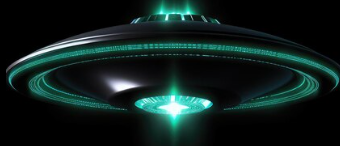
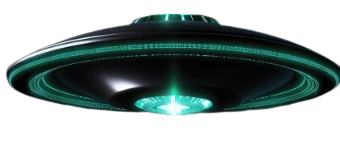
Imagens Novas, Botão na Tela de Fases e Velocidade

diff --git a/niveis/level3.py b/niveis/level3.py
@@ -25,6 +25,13 @@ class Level3:
             if event.type == pg.MOUSEBUTTONDOWN and self.tiros >= 0:
                 self.pressed = True
 
+            if event.type == pg.KEYDOWN:
+                if event.key == pg.K_UP and self.assets.v0 < 6 and self.assets.v0 >= 1:
+                    self.assets.v0 = self.assets.v0 + 1
+
+                if event.key == pg.K_DOWN and self.assets.v0 <= 6 and self.assets.v0 > 1:
+                    self.assets.v0 = self.assets.v0 - 1
+
 
         if Utils.verificar_colisao_retangulo(self.s[0], self.s[1], 570, (self.assets.y_luci-20), 50, 50):
             return 7
@@ -36,7 +43,7 @@ class Level3:
                 self.y = pg.mouse.get_pos()
                 self.v = self.y - self.assets.s0
                 self.v = self.v / np.linalg.norm(self.v)
-                self.v *= 5
+                self.v *= self.assets.v0
                 self.s = self.assets.s0
 
         if (self.s[0] < 10 or self.s[0] > 630 or self.s[1] < 10 or self.s[1] > 470):
@@ -49,7 +56,7 @@ class Level3:
                 self.y = pg.mouse.get_pos()
                 self.v = self.y - self.assets.s0
                 self.v = self.v / np.linalg.norm(self.v)
-                self.v *= 5
+                self.v *= self.assets.v0
                 self.s = self.assets.s0
 
         # Controlar frame rate
@@ -87,11 +94,13 @@ class Level3:
             pg.draw.circle(self.assets.screen, (255, 255, 255), (x, y), 2)
 
         # Desenhar personagem
-        self.rect = pg.Rect(self.s, (10, 10))
-        self.assets.screen.blit(self.assets.personagem, self.rect)
+        if self.s[0] != 80 and self.s[1] != 190:
 
-        self.rect = pg.Rect((self.s[0] - 5, self.s[1] - 5), (10, 10))
-        self.assets.screen.blit(self.assets.imagem_tiro, self.rect)
+            self.rect = pg.Rect(self.s, (10, 10))
+            self.assets.screen.blit(self.assets.personagem, self.rect)
+
+            self.rect = pg.Rect((self.s[0] - 5, self.s[1] - 5), (10, 10))
+            self.assets.screen.blit(self.assets.imagem_tiro, self.rect)
 
         celeste = pg.draw.circle(self.assets.screen, (0, 200, 200), (self.assets.x_satelite, self.assets.y_satelite), 20)
         self.assets.screen.blit(self.assets.imp, (10, 180))
@@ -107,8 +116,14 @@ class Level3:
         # Desenhar imagens
         self.assets.screen.blit(self.assets.imagem_satelite, (self.assets.x_satelite - self.assets.circle_radius, self.assets.y_satelite - self.assets.circle_radius))
         self.assets.screen.blit(self.assets.imagem_sol, (self.assets.circle_center[0] - self.assets.circle_radius, self.assets.circle_center[1] - self.assets.circle_radius))
-        self.assets.screen.blit(self.assets.imagem_planeta, (self.assets.planeta[0] - self.assets.planet_radius, self.assets.planeta[1] - self.assets.planet_radius))
+        self.assets.screen.blit(self.assets.imagem_planeta, ((self.assets.planeta[0] - self.assets.planet_radius) -3.5, (self.assets.planeta[1] - self.assets.planet_radius)-3.5))
 
         # Desenhar tiros disponíveis
         for i in range(self.tiros):
-            self.assets.screen.blit(self.assets.imagem_tiro, (5 + (i * 25), 5))
+            self.assets.screen.blit(self.assets.imagem_tiro, (15 + (i * 25), 15))
+
+        for i in range(6):
+            self.assets.screen.blit(self.assets.imagem_raio_vazio, (608 - (i * 25), 15))
+
+        for i in range(self.assets.v0):
+            self.assets.screen.blit(self.assets.imagem_raio, (608 - (i * 25), 15))

diff --git a/niveis/level2.py b/niveis/level2.py
@@ -25,6 +25,13 @@ class Level2:
             if event.type == pg.MOUSEBUTTONDOWN and self.tiros >= 0:
                 self.pressed = True
 
+            if event.type == pg.KEYDOWN:
+                if event.key == pg.K_UP and self.assets.v0 < 6 and self.assets.v0 >= 1:
+                    self.assets.v0 = self.assets.v0 + 1
+
+                if event.key == pg.K_DOWN and self.assets.v0 <= 6 and self.assets.v0 > 1:
+                    self.assets.v0 = self.assets.v0 - 1
+
 
         if Utils.verificar_colisao_retangulo(self.s[0], self.s[1], 570, (self.assets.y_luci-20), 50, 50):
             return 5
@@ -36,7 +43,7 @@ class Level2:
                 self.y = pg.mouse.get_pos()
                 self.v = self.y - self.assets.s0
                 self.v = self.v / np.linalg.norm(self.v)
-                self.v *= 5
+                self.v *= self.assets.v0
                 self.s = self.assets.s0
 
         if (self.s[0] < 10 or self.s[0] > 630 or self.s[1] < 10 or self.s[1] > 470):
@@ -49,7 +56,7 @@ class Level2:
                 self.y = pg.mouse.get_pos()
                 self.v = self.y - self.assets.s0
                 self.v = self.v / np.linalg.norm(self.v)
-                self.v *= 5
+                self.v *= self.assets.v0
                 self.s = self.assets.s0
 
         # Controlar frame rate
@@ -87,11 +94,13 @@ class Level2:
             pg.draw.circle(self.assets.screen, (255, 255, 255), (x, y), 2)
 
         # Desenhar personagem
-        self.rect = pg.Rect(self.s, (10, 10))
-        self.assets.screen.blit(self.assets.personagem, self.rect)
+        if self.s[0] != 80 and self.s[1] != 190:
 
-        self.rect = pg.Rect((self.s[0] - 5, self.s[1] - 5), (10, 10))
-        self.assets.screen.blit(self.assets.imagem_tiro, self.rect)
+            self.rect = pg.Rect(self.s, (10, 10))
+            self.assets.screen.blit(self.assets.personagem, self.rect)
+
+            self.rect = pg.Rect((self.s[0] - 5, self.s[1] - 5), (10, 10))
+            self.assets.screen.blit(self.assets.imagem_tiro, self.rect)
 
         celeste = pg.draw.circle(self.assets.screen, (0, 200, 200), (self.assets.x_satelite, self.assets.y_satelite), 20)
         self.assets.screen.blit(self.assets.imp, (10, 180))
@@ -109,4 +118,10 @@ class Level2:
 
         # Desenhar tiros disponíveis
         for i in range(self.tiros):
-            self.assets.screen.blit(self.assets.imagem_tiro, (5 + (i * 25), 5))
+            self.assets.screen.blit(self.assets.imagem_tiro, (15 + (i * 25), 15))
+
+        for i in range(6):
+            self.assets.screen.blit(self.assets.imagem_raio_vazio, (608 - (i * 25), 15))
+
+        for i in range(self.assets.v0):
+            self.assets.screen.blit(self.assets.imagem_raio, (608 - (i * 25), 15))

diff --git a/niveis/level1.py b/niveis/level1.py
@@ -26,6 +26,13 @@ class Level1:
             if event.type == pg.MOUSEBUTTONDOWN and self.tiros >= 0:
                 self.pressed = True
 
+            if event.type == pg.KEYDOWN:
+                if event.key == pg.K_UP and self.assets.v0 < 6 and self.assets.v0 >= 1:
+                    self.assets.v0 = self.assets.v0 + 1
+
+                if event.key == pg.K_DOWN and self.assets.v0 <= 6 and self.assets.v0 > 1:
+                    self.assets.v0 = self.assets.v0 - 1
+
 
         if Utils.verificar_colisao_retangulo(self.s[0], self.s[1], 570, (self.assets.y_luci-20), 50, 50):
             return 3
@@ -37,7 +44,7 @@ class Level1:
                 self.y = pg.mouse.get_pos()
                 self.v = self.y - self.assets.s0
                 self.v = self.v / np.linalg.norm(self.v)
-                self.v *= 5
+                self.v *= self.assets.v0
                 self.s = self.assets.s0
 
         if (self.s[0] < 10 or self.s[0] > 630 or self.s[1] < 10 or self.s[1] > 470):
@@ -50,7 +57,7 @@ class Level1:
                 self.y = pg.mouse.get_pos()
                 self.v = self.y - self.assets.s0
                 self.v = self.v / np.linalg.norm(self.v)
-                self.v *= 5
+                self.v *= self.assets.v0
                 self.s = self.assets.s0
         
 
@@ -91,16 +98,24 @@ class Level1:
 
         # Desenhar imagens
 
-        self.rect = pg.Rect(self.s, (10, 10))
-        self.assets.screen.blit(self.assets.personagem, self.rect)
+        if self.s[0] != 80 and self.s[1] != 190:
 
-        self.rect = pg.Rect((self.s[0] - 5, self.s[1] - 5), (10, 10))
-        self.assets.screen.blit(self.assets.imagem_tiro, self.rect)
+            self.rect = pg.Rect(self.s, (10, 10))
+            self.assets.screen.blit(self.assets.personagem, self.rect)
+
+            self.rect = pg.Rect((self.s[0] - 5, self.s[1] - 5), (10, 10))
+            self.assets.screen.blit(self.assets.imagem_tiro, self.rect)
 
         self.assets.screen.blit(self.assets.imagem_satelite, (self.assets.x_satelite - self.assets.circle_radius, self.assets.y_satelite - self.assets.circle_radius))
 
         self.assets.screen.blit(self.assets.imp, (10, 180))
 
-        # Desenhar tiros disponíveis
+        # Desenhar tiros e velocidade
         for i in range(self.tiros):
             self.assets.screen.blit(self.assets.imagem_tiro, (15 + (i * 25), 15))
+
+        for i in range(6):
+            self.assets.screen.blit(self.assets.imagem_raio_vazio, (608 - (i * 25), 15))
+
+        for i in range(self.assets.v0):
+            self.assets.screen.blit(self.assets.imagem_raio, (483 + (i * 25), 15))

diff --git a/main.py b/main.py
@@ -1,5 +1,6 @@
 import pygame as pg
 from constantes import *
+from funcoes import Utils
 from niveis.level1 import Level1
 from niveis.level2 import Level2
 from niveis.level3 import Level3
@@ -7,6 +8,7 @@ from niveis.level3 import Level3
 pg.init()
 
 assets = Assets()
+funcoes = Utils()
 
 # Configurações da tela
 largura, altura = 640, 480
@@ -14,6 +16,9 @@ screen = pg.display.set_mode((largura, altura))
 
 rodando = True
 tela_atual = 0
+
+tempo_passado = 0
+tempo_exibicao = 220000
 
 while rodando:
 
@@ -25,8 +30,10 @@ while rodando:
         for event in pg.event.get():
             if event.type == pg.QUIT:
                 rodando = False
-            if event.type == pg.MOUSEBUTTONDOWN:
-                tela_atual = 1
+
+        tempo_passado += pg.time.get_ticks()
+        if tempo_passado >= tempo_exibicao:
+            tela_atual = 1
 
     elif tela_atual == 1:
         imagem_fundo = pg.image.load('images/tela_niveis1.png')
@@ -36,7 +43,10 @@ while rodando:
         for event in pg.event.get():
             if event.type == pg.QUIT:
                 rodando = False
-            if event.type == pg.MOUSEBUTTONDOWN:
+
+            pos = pg.mouse.get_pos()
+
+            if event.type == pg.MOUSEBUTTONDOWN and funcoes.verificar_colisao_retangulo(pos[0], pos[1], 70, 200, 120, 100):
                 tela_atual = 2
 
     elif tela_atual == 3:
@@ -47,7 +57,10 @@ while rodando:
         for event in pg.event.get():
             if event.type == pg.QUIT:
                 rodando = False
-            if event.type == pg.MOUSEBUTTONDOWN:
+
+            pos = pg.mouse.get_pos()
+
+            if event.type == pg.MOUSEBUTTONDOWN and funcoes.verificar_colisao_retangulo(pos[0], pos[1], 230, 40, 120, 100):
                 tela_atual = 4
 
     elif tela_atual == 5:
@@ -58,7 +71,10 @@ while rodando:
         for event in pg.event.get():
             if event.type == pg.QUIT:
                 rodando = False
-            if event.type == pg.MOUSEBUTTONDOWN:
+
+            pos = pg.mouse.get_pos()
+            
+            if event.type == pg.MOUSEBUTTONDOWN and funcoes.verificar_colisao_retangulo(pos[0], pos[1], 475, 200, 120, 100):
                 tela_atual = 6
 
     elif tela_atual == 7:

diff --git a/constantes.py b/constantes.py
@@ -19,13 +19,15 @@ class Assets:
         self.BLACK = (0, 0, 0)
         self.COR_PERSONAGEM = (200, 200, 200)
 
+        self.v0 = 5
+
         # Inicializar posicoes
         self.s0 = np.array([80, 190])
         self.a = np.array([0, 0.05])
         self.y = pg.mouse.get_pos()
         self.v = self.y - self.s0
         self.v = self.v / np.linalg.norm(self.v)
-        self.v *= 5
+        self.v *= self.v0
         self.s = self.s0
 
         self.sol = np.array([300, 100])
@@ -79,7 +81,7 @@ class Assets:
         self.imagem_sol = pg.transform.scale(self.imagem_sol, (2 * self.circle_radius, 2 * self.circle_radius))
 
         self.imagem_planeta = pg.image.load('images/urano.png')
-        self.imagem_planeta = pg.transform.scale(self.imagem_planeta, (2 * self.planet_radius, 2 * self.planet_radius))
+        self.imagem_planeta = pg.transform.scale(self.imagem_planeta, (2.3 * self.planet_radius, 2.3 * self.planet_radius))
 
         self.imagem_tiro = pg.image.load('images/portal.png')
         self.imagem_tiro = pg.transform.scale(self.imagem_tiro, (20, 20))
@@ -87,3 +89,8 @@ class Assets:
         self.imagem_fundo = pg.image.load('images/background.png')
         self.imagem_fundo = pg.transform.scale(self.imagem_fundo, (640, 510))
 
+        self.imagem_raio = pg.image.load('images/raio.png')
+        self.imagem_raio = pg.transform.scale(self.imagem_raio, (20, 25))
+
+        self.imagem_raio_vazio = pg.image.load('images/raio_vazio.png')
+        self.imagem_raio_vazio = pg.transform.scale(self.imagem_raio_vazio, (20, 25))
